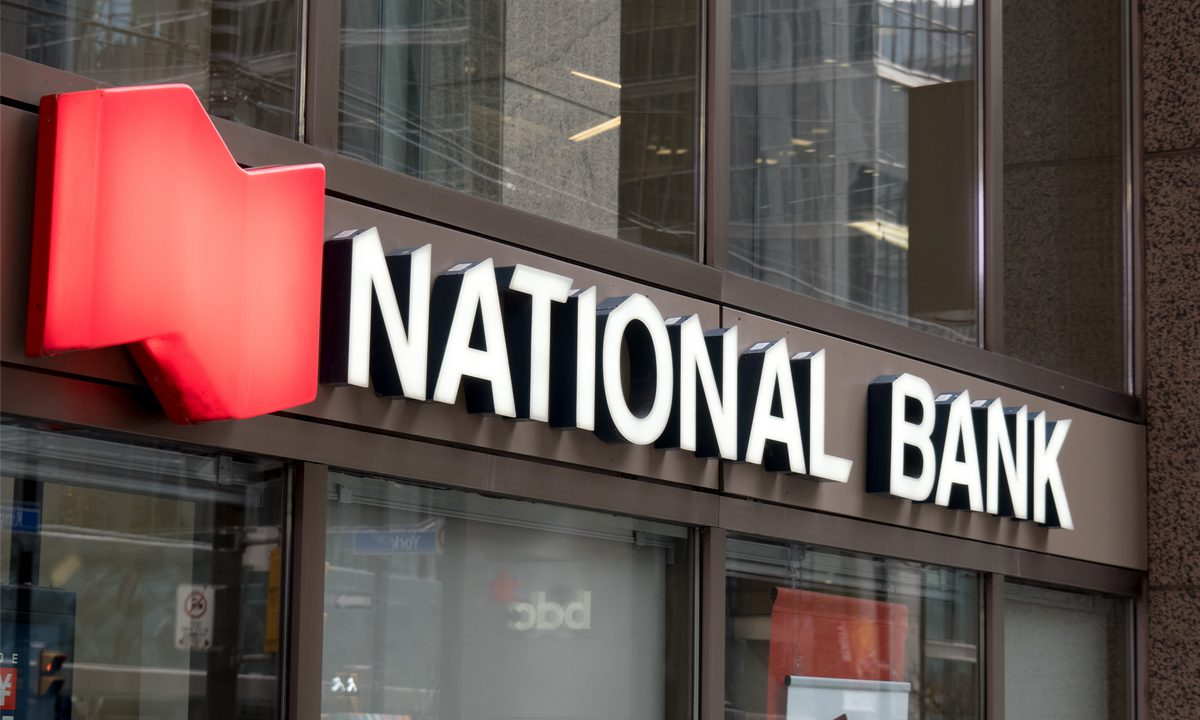
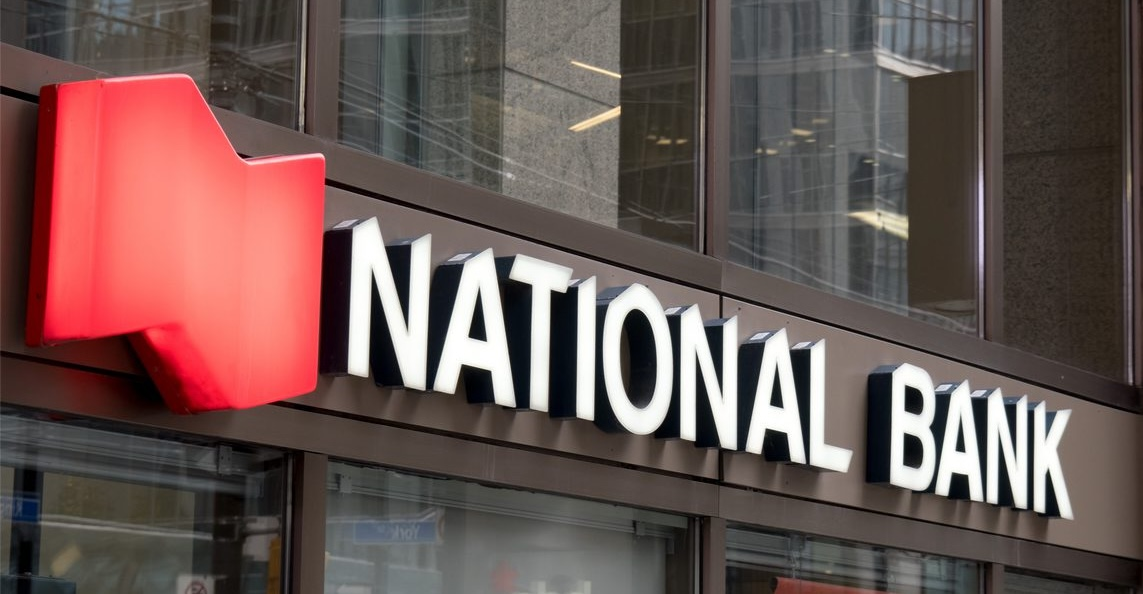
Update National Bank photo to new version, fix now-mismatched refs
- National-Bank-of-Canada.jpg replaced with an updated photo, now
  1143x594 (was 1200x720).
- Updated the article page's aspect-ratio CSS to match (1143/594),
  keeping the full uncropped display from 5812191 correct for the new
  dimensions.
- The photo's srcset on index.html and news.html pointed to size
  variants (-300x180.jpg, -768x461.jpg, -1024x614.jpg) that were NOT
  regenerated — they still hold the old photo, so depending on
  viewport width the browser could have picked a stale image while
  everything else shows the new one. Removed the mismatched srcset/
  sizes on both (falls back to the single correct src) and updated the
  stale width="1200" height="720" attributes to 1143x594.

diff --git a/national-bank-panda-bonds.html b/national-bank-panda-bonds.html
@@ -338,15 +338,16 @@ body { -webkit-font-smoothing: antialiased; }
 </style>
 <style id="vg-national-bank-thumb-zoom">
 /* Article thumbnail: the theme's default background-size: cover on the
-   fixed 480px-tall .blog-thumb box was scaling the 1200x720 photo up
-   to fill the box, cropping off part of it. Dropped the fixed height
-   and gave the box the photo's true aspect ratio (1200:720) instead,
-   so it always matches exactly — full photo visible, no cropping, no
-   empty space, at any width. Matches how the same photo now displays
-   uncropped on the news page. */
+   fixed 480px-tall .blog-thumb box was scaling the photo up to fill
+   the box, cropping off part of it. Dropped the fixed height and gave
+   the box the photo's true aspect ratio instead, so it always matches
+   exactly — full photo visible, no cropping, no empty space, at any
+   width. Matches how the same photo now displays uncropped on the
+   news page. Photo was swapped to an updated version at 1143x594
+   (previously 1200x720) — ratio here follows the current file. */
 .blog-details .post .blog-thumb {
   height: auto !important;
-  aspect-ratio: 1200 / 720 !important;
+  aspect-ratio: 1143 / 594 !important;
   background-size: cover !important;
 }
 </style>

diff --git a/news.html b/news.html
@@ -557,7 +557,7 @@ body { -webkit-font-smoothing: antialiased; }
 			<div class="blog-thumb">
 			
 			<a class="post-thumbnail" href="national-bank-panda-bonds.html" aria-hidden="true" tabindex="-1">
-				<img fetchpriority="high" width="1200" height="720" src="wp-content/uploads/2024/12/National-Bank-of-Canada.jpg" class="attachment-post-thumbnail size-post-thumbnail wp-post-image" alt="National Bank of Canada Issued Panda Bonds in Mainland China" decoding="async" srcset="wp-content/uploads/2024/12/National-Bank-of-Canada.jpg 1200w, wp-content/uploads/2024/12/National-Bank-of-Canada-300x180.jpg 300w, wp-content/uploads/2024/12/National-Bank-of-Canada-1024x614.jpg 1024w, wp-content/uploads/2024/12/National-Bank-of-Canada-768x461.jpg 768w" sizes="(max-width: 1200px) 100vw, 1200px" />			</a>
+				<img fetchpriority="high" width="1143" height="594" src="wp-content/uploads/2024/12/National-Bank-of-Canada.jpg" class="attachment-post-thumbnail size-post-thumbnail wp-post-image" alt="National Bank of Canada Issued Panda Bonds in Mainland China" decoding="async" />			</a>
 
 					</div>
 	

diff --git a/index.html b/index.html
@@ -1461,7 +1461,7 @@ body { -webkit-font-smoothing: antialiased; }
         			
 										<div class="blog-box">
 						<div class="post-thumb">
-							<img loading="lazy" decoding="async" width="1200" height="720" src="wp-content/uploads/2024/12/National-Bank-of-Canada.jpg" class="attachment-post-thumbnail size-post-thumbnail wp-post-image" alt="" srcset="wp-content/uploads/2024/12/National-Bank-of-Canada.jpg 1200w, wp-content/uploads/2024/12/National-Bank-of-Canada-300x180.jpg 300w, wp-content/uploads/2024/12/National-Bank-of-Canada-1024x614.jpg 1024w, wp-content/uploads/2024/12/National-Bank-of-Canada-768x461.jpg 768w" sizes="(max-width: 1200px) 100vw, 1200px" />						</div>
+							<img loading="lazy" decoding="async" width="1143" height="594" src="wp-content/uploads/2024/12/National-Bank-of-Canada.jpg" class="attachment-post-thumbnail size-post-thumbnail wp-post-image" alt="" />						</div>
 						<div class="blog-content">
 							<div class="blog-meta">
 								<div class="category">
